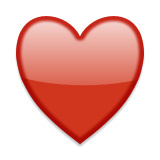
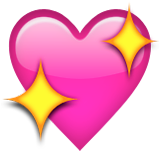
Updated site heart to be sparkly again. :wtf:

diff --git a/picks.md b/picks.md
@@ -6,7 +6,7 @@ permalink: /picks/
 
 Shamelessy stealing this idea from the fantastic
 [Ruby Rogues podcast][ruby-rogues-podcast]. Consider them the first pick
-<img src="/assets/sparkly-heart.webp" width="18px" height="18px" />
+<img src="/assets/site-heart.webp" width="18px" height="18px" />
 
 August 13th, 2016:
 
